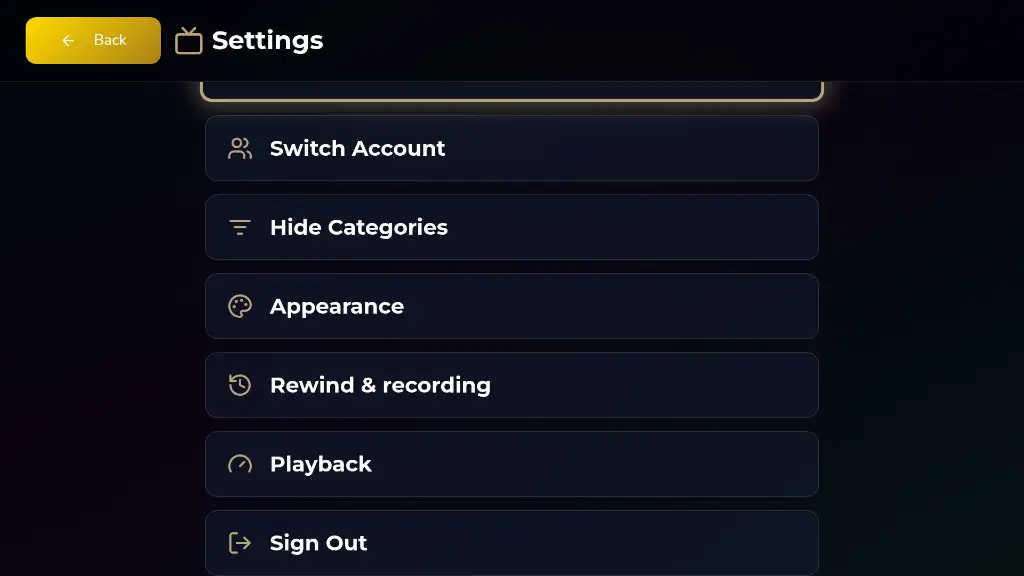
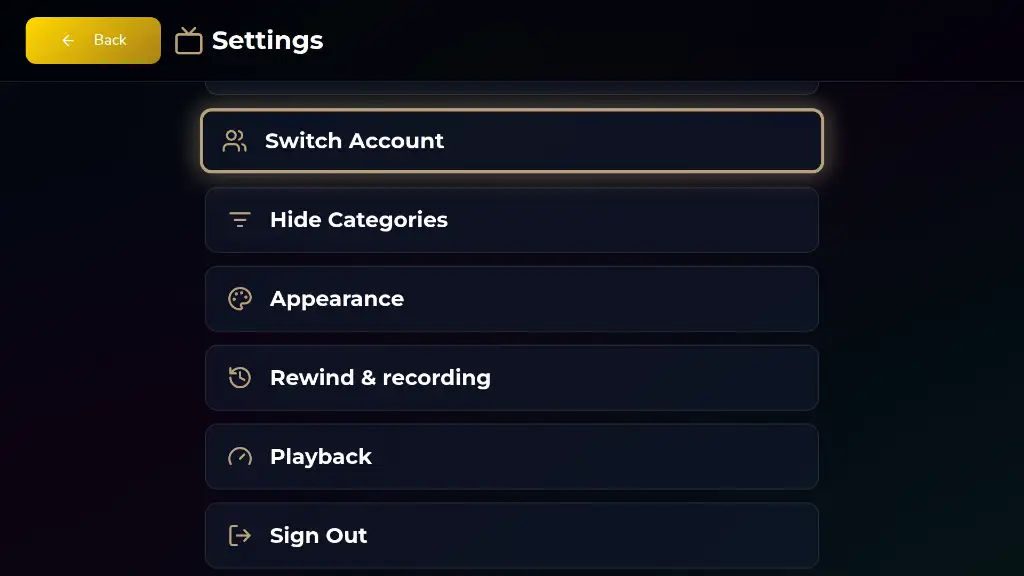
How-to guide: Discover picture, switches shot, Live TV Settings scroll, solid stage
- Live TV Settings: the menu follows the remote highlight (keepInView), so
  Sign Out comes on screen at 960x540. Test added.
- Plex Discover shows rows from the made-up capture catalog in capture mode
  only (DEV build, ?demo=1&howto=1); APK and website unchanged.
- settings-ui split: new settings-switches shot (Content Bar, Post
  notifications, Alerts); the "switches" slide uses it.
- Recordings and Multi-Screen stage shots draw on a solid background.
- Labels: take another side when the rule's spot would cover another ring,
  and are measured at their own size so they no longer wrap at the edge.
- Recaptured plex-discover, settings-ui, settings-switches, live-settings,
  recordings and multi in all 5 languages (live-settings by the remote now).

Claude-Session: https://claude.ai/code/session_01Taqj8yYCu1qmmvoTjYE6p8

diff --git a/src/components/howto/calloutLayout.ts b/src/components/howto/calloutLayout.ts
@@ -6,6 +6,10 @@
 //  - the ring is the rect grown by 0.8%, kept inside the frame;
 //  - the label sits below the ring if the ring ends above 70% of the height,
 //    else above if it starts below 30%, else to the right, else to the left;
+//    when that spot would cover a ring (its own or another's) or a label
+//    already placed, the first other side that covers none is taken, else
+//    one that covers only its own ring (stacked rows: a label below the
+//    first row would hide the second);
 //  - a label is never wider than 38% of the frame and always stays inside 1..99%;
 //  - two labels never sit on each other: the later one moves down (up if it sits
 //    above its ring, or at the bottom edge). A pointer then stretches so it still
@@ -58,6 +62,10 @@ export const RING_GROW = 0.8;
 export const LABEL_MAX_WIDTH = 38;
 export const EDGE_MIN = 1;
 export const EDGE_MAX = 99;
+/** A label pushed against the right edge keeps this much spare width, in
+ *  percent: its max width is rounded to 2 decimals, and a hair less than
+ *  the text needs wraps it onto a second line. */
+const FIT_SLACK = 0.05;
 /** Room between labels, in percent. */
 const LABEL_MARGIN = 1;
 /** Pointer arrow length in px: the least gap between a label and its ring. */
@@ -123,6 +131,8 @@ export function spotlightHoles(rings: Box[]): Box[] {
   return holes;
 }
 
+const SIDES: Side[] = ['below', 'above', 'right', 'left'];
+
 function pickSide(ring: Box, size: LabelSize, gapX: number): Side {
   if (ring.top + ring.height < 70) return 'below';
   if (ring.top > 30) return 'above';
@@ -168,30 +178,47 @@ export function layoutCallouts(items: CalloutInput[], options: LayoutOptions = {
   const gapX = ARROW_PX / (frame.width / 100);
   const gapY = ARROW_PX / (frame.height / 100);
 
+  const rings = list.map((item) => growRing(item.rect));
+  const boxes: Box[] = [];
   const placed = list.map((item, i) => {
-    const ring = growRing(item.rect);
+    const ring = rings[i];
     const size = options.sizes?.[i] ?? estimateLabelSize(item.chars ?? 14, frame, numbered);
     const width = Math.min(size.width, LABEL_MAX_WIDTH);
     const height = size.height;
     const base = item.anchor ?? ring;
-    const side = item.side ?? pickSide(base, { width, height }, gapX);
     const cx = ring.left + ring.width / 2;
     const cy = ring.top + ring.height / 2;
-    let left: number;
-    let top: number;
-    if (side === 'below' || side === 'above') {
-      left = cx - width / 2;
-      top = side === 'below' ? base.top + base.height + gapY : base.top - gapY - height;
-    } else {
-      left = side === 'right' ? base.left + base.width + gapX : base.left - gapX - width;
-      top = cy - height / 2;
-    }
-    const box: Box = {
-      left: keepIn(left, EDGE_MIN, EDGE_MAX - width),
-      top: keepIn(top, EDGE_MIN, EDGE_MAX - height),
-      width,
-      height,
+    const boxAt = (s: Side): Box => {
+      let left: number;
+      let top: number;
+      if (s === 'below' || s === 'above') {
+        left = cx - width / 2;
+        top = s === 'below' ? base.top + base.height + gapY : base.top - gapY - height;
+      } else {
+        left = s === 'right' ? base.left + base.width + gapX : base.left - gapX - width;
+        top = cy - height / 2;
+      }
+      return {
+        left: keepIn(left, EDGE_MIN, EDGE_MAX - width - FIT_SLACK),
+        top: keepIn(top, EDGE_MIN, EDGE_MAX - height),
+        width,
+        height,
+      };
     };
+    const preferred = item.side ?? pickSide(base, { width, height }, gapX);
+    let side = preferred;
+    let box = boxAt(preferred);
+    // A forced side stays; otherwise a spot that hides nothing beats the
+    // rule's, and a spot on its own ring beats one on another's ring.
+    const free = (b: Box, ownOk: boolean) => !rings.some((r, j) => (ownOk && j === i ? false : overlaps(b, r, 0)))
+      && !boxes.some((o) => overlaps(b, o, LABEL_MARGIN))
+      && !avoid.some((a) => overlaps(b, a, LABEL_MARGIN));
+    if (!item.side && !free(box, false)) {
+      const found = [false, true].reduce<Side | null>((got, ownOk) => got
+        ?? [preferred, ...SIDES.filter((x) => x !== preferred)].find((x) => free(boxAt(x), ownOk)) ?? null, null);
+      if (found) { side = found; box = boxAt(found); }
+    }
+    boxes.push(box);
     return { ring, box, side };
   });
 

diff --git a/src/components/livetv/SettingsHub.scroll.test.tsx b/src/components/livetv/SettingsHub.scroll.test.tsx
@@ -1,0 +1,67 @@
+/**
+ * Live TV → Settings: at 960×540 the last rows (Sign Out) sit below the fold.
+ * The menu must scroll to keep the remote highlight on screen, and go back to
+ * the top when the highlight returns to the first row.
+ */
+import { act, render } from '@testing-library/react';
+import { afterEach, beforeEach, describe, expect, it, vi } from 'vitest';
+
+vi.mock('@/hooks/useBillingEnabled', () => ({ useBillingEnabled: () => false }));
+
+import SettingsHub from './SettingsHub';
+
+// A 540 px screen; the menu starts under a 73 px header. Each row is 60 px
+// tall with 12 px between rows, drawn from the menu's scroll position.
+const VIEW_H = 540;
+const PANE_TOP = 73;
+const ROW_H = 60;
+const ROW_STEP = 72;
+const rect = (top: number, height: number) =>
+  ({ top, bottom: top + height, height, left: 0, right: 600, width: 600, x: 0, y: top, toJSON: () => ({}) }) as DOMRect;
+
+const realRect = HTMLElement.prototype.getBoundingClientRect;
+let pane: HTMLElement | null = null;
+
+beforeEach(() => {
+  Object.defineProperty(window, 'innerHeight', { configurable: true, value: VIEW_H });
+  HTMLElement.prototype.getBoundingClientRect = function (this: HTMLElement) {
+    if (pane && this === pane) return rect(PANE_TOP, VIEW_H - PANE_TOP);
+    if (pane && this.parentElement?.parentElement === pane) {
+      const i = Array.from(this.parentElement.children).indexOf(this);
+      return rect(PANE_TOP + 24 + i * ROW_STEP - pane.scrollTop, ROW_H);
+    }
+    return realRect.call(this);
+  };
+});
+afterEach(() => {
+  HTMLElement.prototype.getBoundingClientRect = realRect;
+  pane = null;
+});
+
+const down = () => act(() => {
+  window.dispatchEvent(new KeyboardEvent('keydown', { key: 'ArrowDown', bubbles: true, cancelable: true }));
+});
+
+describe('SettingsHub menu scrolling', () => {
+  it('scrolls Sign Out into view when the highlight reaches it, and back to the top', () => {
+    const { container } = render(
+      <SettingsHub onBack={vi.fn()} onSignOut={vi.fn()} onChangeCredentials={vi.fn()} onSwitchAccount={vi.fn()} />,
+    );
+    const signOut = container.querySelector('[data-howto="hub.signOut"]') as HTMLElement;
+    pane = signOut.parentElement!.parentElement as HTMLElement;
+    expect(pane.scrollTop).toBe(0);
+
+    // Account Info is highlighted first; Sign Out is the 7th row, 6 presses down.
+    for (let i = 0; i < 6; i++) down();
+    expect(signOut.getAttribute('data-focused')).toBe('true');
+    const r = signOut.getBoundingClientRect();
+    expect(pane.scrollTop).toBeGreaterThan(0);
+    expect(r.bottom).toBeLessThanOrEqual(VIEW_H);
+    expect(r.top).toBeGreaterThanOrEqual(PANE_TOP);
+
+    // Down wraps to Back (in the header), then the first row: the menu is back at the top.
+    down();
+    down();
+    expect(pane.scrollTop).toBe(0);
+  });
+});

diff --git a/src/components/livetv/PlexSection.tsx b/src/components/livetv/PlexSection.tsx
@@ -44,7 +44,7 @@ import {
   setPlexImageFocus, preloadImages, plexPhotoTranscodeUrl, POSTER_TILE_W, POSTER_TILE_H,
   type PlexLibrary, type PlexItem, type PlexEpisode, type PlexPlayInfo, plexRouteLabel,
   setPlexPlaybackActive } from '@/lib/plex';
-import { isDemo, demoDialogMsg } from '@/lib/demoMode';
+import { isDemo, isHowtoCapture, demoDialogMsg } from '@/lib/demoMode';
 import { isAdultLabel, isAdultPlexItem } from '@/lib/adultContent';
 import { kidsAllowsPlex, kidsLevel } from '@/lib/kidsFilter';
 import { peekPlexVoice, pickPlexVoiceMatch, plexVoiceQuery, plexVoiceSearchTexts, PLEX_VOICE_EVENT, PLEX_VOICE_KEY, type PlexVoiceIntent } from '@/lib/plexVoice';
@@ -970,6 +970,27 @@ const DiscoverPanel = memo(({ isActive, base, token, libraries, adultKeys, onPla
 
   const libKeysSig = libraries.map((l) => `${l.type}:${l.key}`).join(',');
   useEffect(() => {
+    // How-to pictures only (developer build, ?demo=1&howto=1): the demo has
+    // no Discover, so the picture fills it from the made-up capture catalog.
+    // `import.meta.env.DEV` first, so the APK and the website drop it.
+    if (import.meta.env.DEV && isHowtoCapture() && libraries.length) {
+      let cancelled = false;
+      void Promise.all(libraries.map((l) => getPlexLibraryItems(base, token, l.key)
+        .then((p) => p.items).catch(() => [] as PlexItem[])))
+        .then((lists) => {
+          if (cancelled) return;
+          const all = lists.flat();
+          const genre = (g: string) => all.filter((it) => it.genres?.includes(g));
+          setRows([
+            discoverRow('gems', '', all.slice().reverse()),
+            discoverRow('random', '', all.filter((_, i) => i % 2 === 0)),
+            discoverRow('genre:drama', 'Drama', genre('Drama')),
+            discoverRow('genre:action', 'Action', genre('Action')),
+          ].filter((r) => r.items.length > 0));
+          setLoading(false);
+        });
+      return () => { cancelled = true; };
+    }
     if (DEMO || !libraries.length) { setLoading(false); return; }
     const cached = getCachedDiscover(base);
     if (cached.length) { setRows(cached); setLoading(false); setBaseDone(true); return; }

diff --git a/src/components/howto/calloutLayout.test.ts b/src/components/howto/calloutLayout.test.ts
@@ -86,10 +86,25 @@ describe('layoutCallouts', () => {
   });
 
   it('moves the later of two colliding labels down, or up at the bottom edge', () => {
-    const [a, b] = layoutCallouts([{ rect: [40, 10, 20, 20] }, { rect: [40, 10, 20, 20] }]);
+    // Sides forced, so no other side is tried first.
+    const [a, b] = layoutCallouts([{ rect: [40, 10, 20, 20], side: 'below' }, { rect: [40, 10, 20, 20], side: 'below' }]);
     expect(b.label.top).toBeGreaterThan(a.label.top);
-    const [c, d] = layoutCallouts([{ rect: [40, 60, 20, 30] }, { rect: [40, 60, 20, 30] }]);
+    const [c, d] = layoutCallouts([{ rect: [40, 60, 20, 30], side: 'above' }, { rect: [40, 60, 20, 30], side: 'above' }]);
     expect(d.label.top).toBeLessThan(c.label.top);
+  });
+
+  it('takes another side when the rule\'s spot would cover a ring (stacked menu rows)', () => {
+    // Three rows one under the other, as in the hold-OK menu: a label below the
+    // first row would sit on the second.
+    const rows: ShotRect[] = [[30, 40, 45, 7], [30, 48, 45, 7], [30, 56, 45, 7]];
+    const out = layoutCallouts(rows.map((rect) => ({ rect, chars: 10 })));
+    for (const c of out) {
+      for (const r of out) expect(touch(c.label, r.ring)).toBe(false);
+      expect(inside(c.label)).toBe(true);
+    }
+    for (let i = 0; i < out.length; i++) {
+      for (let j = i + 1; j < out.length; j++) expect(touch(out[i].label, out[j].label)).toBe(false);
+    }
   });
 
   it('points from the label edge that faces the ring, and stretches when the label moved away', () => {
@@ -98,7 +113,7 @@ describe('layoutCallouts', () => {
     expect(a.pointer!.edge).toBe('top');
     expect(a.pointer!.offset).toBeGreaterThanOrEqual(10);
     expect(a.pointer!.offset).toBeLessThanOrEqual(90);
-    const [b, c] = layoutCallouts([{ rect: [40, 10, 20, 20] }, { rect: [40, 10, 20, 20] }]);
+    const [b, c] = layoutCallouts([{ rect: [40, 10, 20, 20], side: 'below' }, { rect: [40, 10, 20, 20], side: 'below' }]);
     expect(c.pointer!.length).toBeGreaterThan(b.pointer!.length);
   });
 

diff --git a/src/components/livetv/SettingsHub.tsx b/src/components/livetv/SettingsHub.tsx
@@ -8,6 +8,7 @@ import { isDemo } from '@/lib/demoMode';
 import { BackButton, BACK_ROW } from '@/components/ui/BackButton';
 import { useBillingEnabled } from '@/hooks/useBillingEnabled';
 import { useTranslation } from 'react-i18next';
+import { keepInView } from '@/utils/keepInView';
 
 // Demo latch (?demo=1) — account actions are inert; the demo account is fixed.
 const DEMO = isDemo();
@@ -54,6 +55,17 @@ const SettingsHub = memo(({ onBack, initialView, onSignOut, onChangeCredentials,
   const [menuIdx, setMenuIdx] = useState(1); // start on first list row (skip Back)
   const menuIdxRef = useRef(menuIdx);
   useEffect(() => { menuIdxRef.current = menuIdx; }, [menuIdx]);
+
+  // Follow the highlight down the menu: at 960×540 Sign Out sits below the
+  // fold, and the remote highlight moved there without the menu scrolling.
+  const scrollRef = useRef<HTMLDivElement | null>(null);
+  useEffect(() => {
+    const node = scrollRef.current;
+    if (!node || view !== 'menu') return;
+    if (menuIdx <= 1) { node.scrollTop = 0; return; }
+    const el = node.querySelector<HTMLElement>('[data-focused="true"]');
+    if (el) keepInView(node, el, 24);
+  }, [menuIdx, view]);
 
   const billingOn = useBillingEnabled();
   const MENU: MenuItem[] = useMemo(() => [
@@ -198,7 +210,7 @@ const SettingsHub = memo(({ onBack, initialView, onSignOut, onChangeCredentials,
         </div>
       </div>
 
-      <div className="flex-1 overflow-auto p-6 flex items-start justify-center">
+      <div ref={scrollRef} className="flex-1 overflow-auto p-6 flex items-start justify-center">
         <div className="w-full max-w-xl space-y-3">
           {MENU.map((m, i) => {
             const Icon = m.icon;

diff --git a/src/components/howto/HowtoShot.tsx b/src/components/howto/HowtoShot.tsx
@@ -10,6 +10,7 @@ import {
   DEFAULT_FRAME,
   LABEL_FONT_PX,
   LABEL_LINE_PX,
+  LABEL_MAX_WIDTH,
   layoutCallouts,
   spotlightHoles,
   type Box,
@@ -77,7 +78,16 @@ function Spotlight({ items, frame, avoid }: { items: LabelItem[]; frame: FrameSi
     const next = items.map((_, i) => {
       const el = nodes.current[i];
       if (!el || !el.offsetWidth || !el.offsetHeight) return sizes[i];
-      const size = { width: (el.offsetWidth / frame.width) * 100, height: (el.offsetHeight / frame.height) * 100 };
+      // Its own size, wherever it sits now: a label near the right edge is
+      // squeezed (and wraps), and laying out from that size kept it wrapped.
+      const { left, maxWidth } = el.style;
+      el.style.left = '0';
+      el.style.maxWidth = LABEL_MAX_WIDTH + '%';
+      // +1 px: offsetWidth is rounded, and a label given a hair less than it
+      // needs wraps.
+      const size = { width: ((el.offsetWidth + 1) / frame.width) * 100, height: (el.offsetHeight / frame.height) * 100 };
+      el.style.left = left;
+      el.style.maxWidth = maxWidth;
       const old = sizes[i];
       if (old && Math.abs(old.width - size.width) <= 0.3 && Math.abs(old.height - size.height) <= 0.3) return old;
       changed = true;

diff --git a/src/data/tutorialContent.ts b/src/data/tutorialContent.ts
@@ -276,7 +276,7 @@ export const TUTORIAL_CHAPTERS: TutorialChapter[] = [
     slides: [
       slide('extras', 'language', Languages, 'settings-language', [h('set.language', 'language')], { line2: true, link: { kind: 'view', view: 'settings' } }),
       slide('extras', 'wallpaper', Palette, 'settings-media', [h('set.wallpaper', 'wallpaper')], { line2: true }),
-      slide('extras', 'switches', ToggleRight, 'settings-ui', [h('set.contentBar', 'recommendedRow'), h('set.postNotify', 'postAlerts'), h('set.alerts', 'serviceAlerts')], { line2: true }),
+      slide('extras', 'switches', ToggleRight, 'settings-switches', [h('set.contentBar', 'recommendedRow'), h('set.postNotify', 'postAlerts'), h('set.alerts', 'serviceAlerts')], { line2: true }),
       slide('extras', 'profiles', Users, 'profiles-pick', [h('prof.list', 'profiles'), h('prof.manage', 'manage')], { line2: true }),
       slide('extras', 'kids', Baby, 'profile-edit', [h('prof.kidsLevel', 'ageLevel'), h('prof.pinBtn', 'pin')], { line2: true }),
       slide('extras', 'updates', Download, 'settings-ui', [h('set.updatesTab', 'updates')], { line2: true }),

diff --git a/src/data/howtoContract.ts b/src/data/howtoContract.ts
@@ -57,7 +57,8 @@ export const HOWTO_SHOTS = {
   'speedtest': ['speed.start'], // Support → Speedtest (before Start)
   'buffering': ['bg.steps'], // Support → Buffering Guide, step 1
   'videos': ['videos.grid'], // Support → Support Videos
-  'settings-ui': ['set.tabs', 'set.updatesTab', 'set.contentBar', 'set.postNotify', 'set.alerts'], // Settings → UI (top)
+  'settings-ui': ['set.tabs', 'set.updatesTab'], // Settings → UI (top)
+  'settings-switches': ['set.contentBar', 'set.postNotify', 'set.alerts'], // Settings → UI, scrolled to the switches
   'settings-language': ['set.language'], // Settings → UI, scrolled to Language, current language focused
   'settings-media': ['set.wallpaper'], // Settings → Media Manager
   'profiles-pick': ['prof.list', 'prof.kids', 'prof.manage'], // "Who's watching?" (Me, Sam, Kids profile with PIN)

diff --git a/src/howto/HowToStage.tsx b/src/howto/HowToStage.tsx
@@ -64,10 +64,14 @@ const DrawnStill = ({ art, wide }: { art: string; wide?: boolean }) => (
   </div>
 );
 
+// Solid, close to Live TV's own dark (black/70 over the wallpaper), so the
+// channel list in the picture behind doesn't show through the screen on top.
+const LIVE_CONTENT_BG = '#0e0c14';
+
 const LiveContent = ({ bg, children }: { bg: string | null; children: React.ReactNode }) => (bg ? (
   <div className="relative w-full h-screen overflow-hidden text-white">
     <Backdrop src={bg} />
-    <div className="absolute flex bg-black/70" style={{ top: LIVE_CONTENT.top, left: LIVE_CONTENT.left, right: 0, bottom: 0 }}>
+    <div className="absolute flex" style={{ top: LIVE_CONTENT.top, left: LIVE_CONTENT.left, right: 0, bottom: 0, backgroundColor: LIVE_CONTENT_BG }}>
       {children}
     </div>
   </div>
